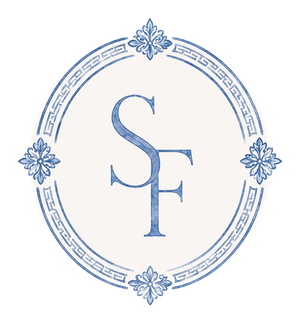
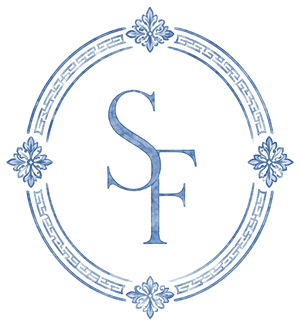
Envelope cor de papel com o monograma azul, pontas retas e ícone da aba (#17)
* Ingresso com arte no WhatsApp

/api/ingresso (Vercel, @vercel/og) gera a imagem do ingresso com a mesma arte
do antigo e-mail: faixa Sarah & Felipe, QR Code e convidados. enviar-ingresso
manda essa arte pela Evolution e cai para o QR simples se a arte falhar.

Claude-Session: https://claude.ai/code/session_01XJt8cmVQXbf83Mdauv2aEx

* Ingresso com a identidade do casamento

Aquarela de hortênsias e limões do site, monograma S&F, azul do logo e
amarelo, Playfair Display + Inter (fontes servidas do próprio site), local e
horário. QR em azul-marinho, conferido com leitor (jsQR).

Claude-Session: https://claude.ai/code/session_01XJt8cmVQXbf83Mdauv2aEx

* Capa no celular: flores e limões só nos cantos

O fundo do celular repetia a metade da imagem e os limões ficavam atrás da
contagem. Agora cada canto da aquarela entra recortado (webp com borda suave),
encostado nas bordas, e o centro fica limpo.

Claude-Session: https://claude.ai/code/session_01XJt8cmVQXbf83Mdauv2aEx

* Menu destaca a parte do site que está na tela

No computador, o link da seção atual fica sublinhado. No celular, o nome
da seção aparece ao lado do logo e fica marcado no menu aberto.

Claude-Session: https://claude.ai/code/session_01XJt8cmVQXbf83Mdauv2aEx

* Tira a faixa branca no pé do envelope no celular

No celular o envelope ficava com 88vw, mas os triângulos da frente e da aba
continuavam calculados com 82vw, deixando o fundo branco aparecer embaixo e
[…]

Changed region(s): [[0.03, 0.0, 0.99, 0.9907], [0.33, 0.2786, 0.66, 0.774]]

diff --git a/css/envelope.css b/css/envelope.css
@@ -7,9 +7,10 @@
     --primary: var(--color-white);
     --bg-color: var(--color-bg);
     --bg-envelope-color: var(--color-white);
-    --envelope-tab: var(--color-primary-light);
-    --envelope-cover: var(--color-primary);
-    --shadow-color: rgba(86, 106, 140, 0.22);
+    /* Envelope cor de papel, para o monograma aparecer nas cores originais */
+    --envelope-tab: #E9E1DA;
+    --envelope-cover: #F4EEE9;
+    --shadow-color: rgba(86, 106, 140, 0.28);
     --txt-color: var(--color-text);
 }
 
@@ -70,7 +71,7 @@
     position: relative;
     z-index: 2;
     background: var(--bg-envelope-color);
-    border-radius: 10px;
+    border-radius: 0;
     box-shadow: 0 18px 40px var(--shadow-color);
     padding: 0;
 }
@@ -82,10 +83,8 @@
     width: var(--env-w);
     height: calc(var(--env-w) * 0.7667);
     overflow: hidden;
-    /* Cantos arredondados iguais aos do envelope e uma faixa da cor da frente
-       no pé, para não sobrar a linha branca do fundo quando a conta dos
-       triângulos arredonda para baixo */
-    border-radius: 10px;
+    /* Faixa da cor da frente no pé, para não sobrar a linha branca do fundo
+       quando a conta dos triângulos arredonda para baixo */
     background: linear-gradient(to top, var(--envelope-cover) 3px, transparent 3px);
 }
 
@@ -182,13 +181,12 @@
     pointer-events: none;
 }
 
-/* Monograma oficial (moldura oval com gregas) como selo do envelope */
+/* Monograma oficial (moldura oval com gregas), nas cores originais, como selo */
 .seal-monograma {
     display: block;
     width: auto;
-    height: 128px;
+    height: 132px;
     max-width: none;
-    filter: drop-shadow(0 4px 10px rgba(18, 63, 122, 0.30));
     pointer-events: none;
 }
 

diff --git a/index.html b/index.html
@@ -63,7 +63,7 @@
                     </div>
                 </div>
                 <button class="heart" id="heartSeal" type="button" aria-label="Abrir envelope">
-                    <img class="seal-monograma" src="assets/images/branding/selo-monograma.png" alt="" width="300" height="323">
+                    <img class="seal-monograma" src="assets/images/branding/selo-monograma.png" alt="" width="300" height="325">
                 </button>
             </div>
         </section>
